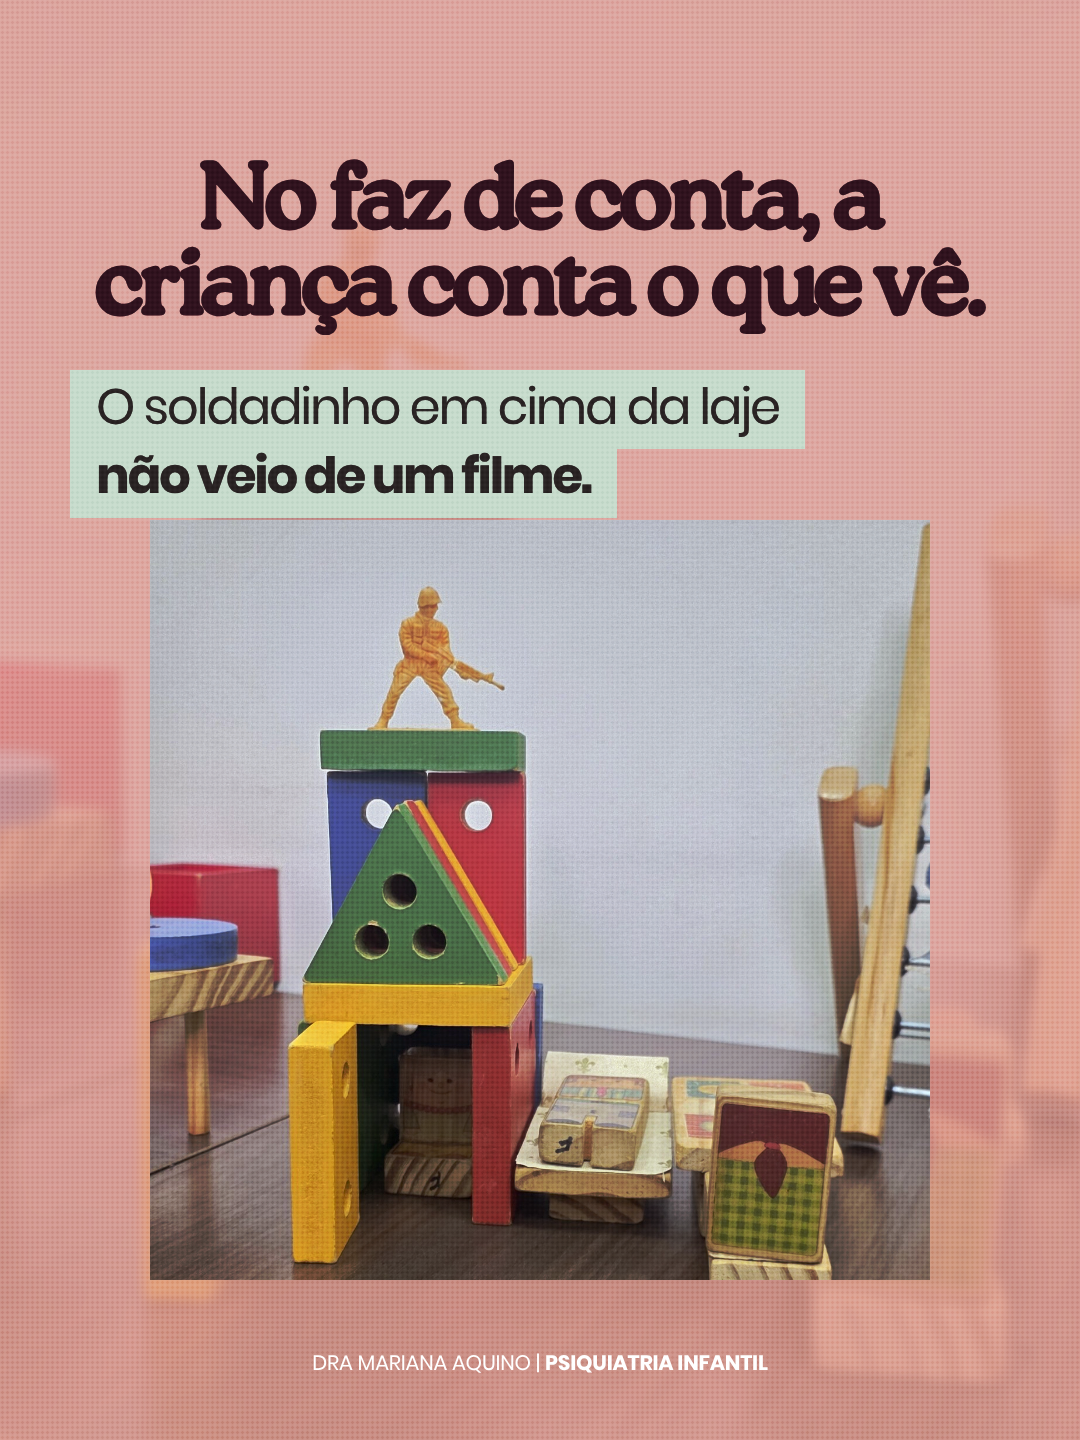
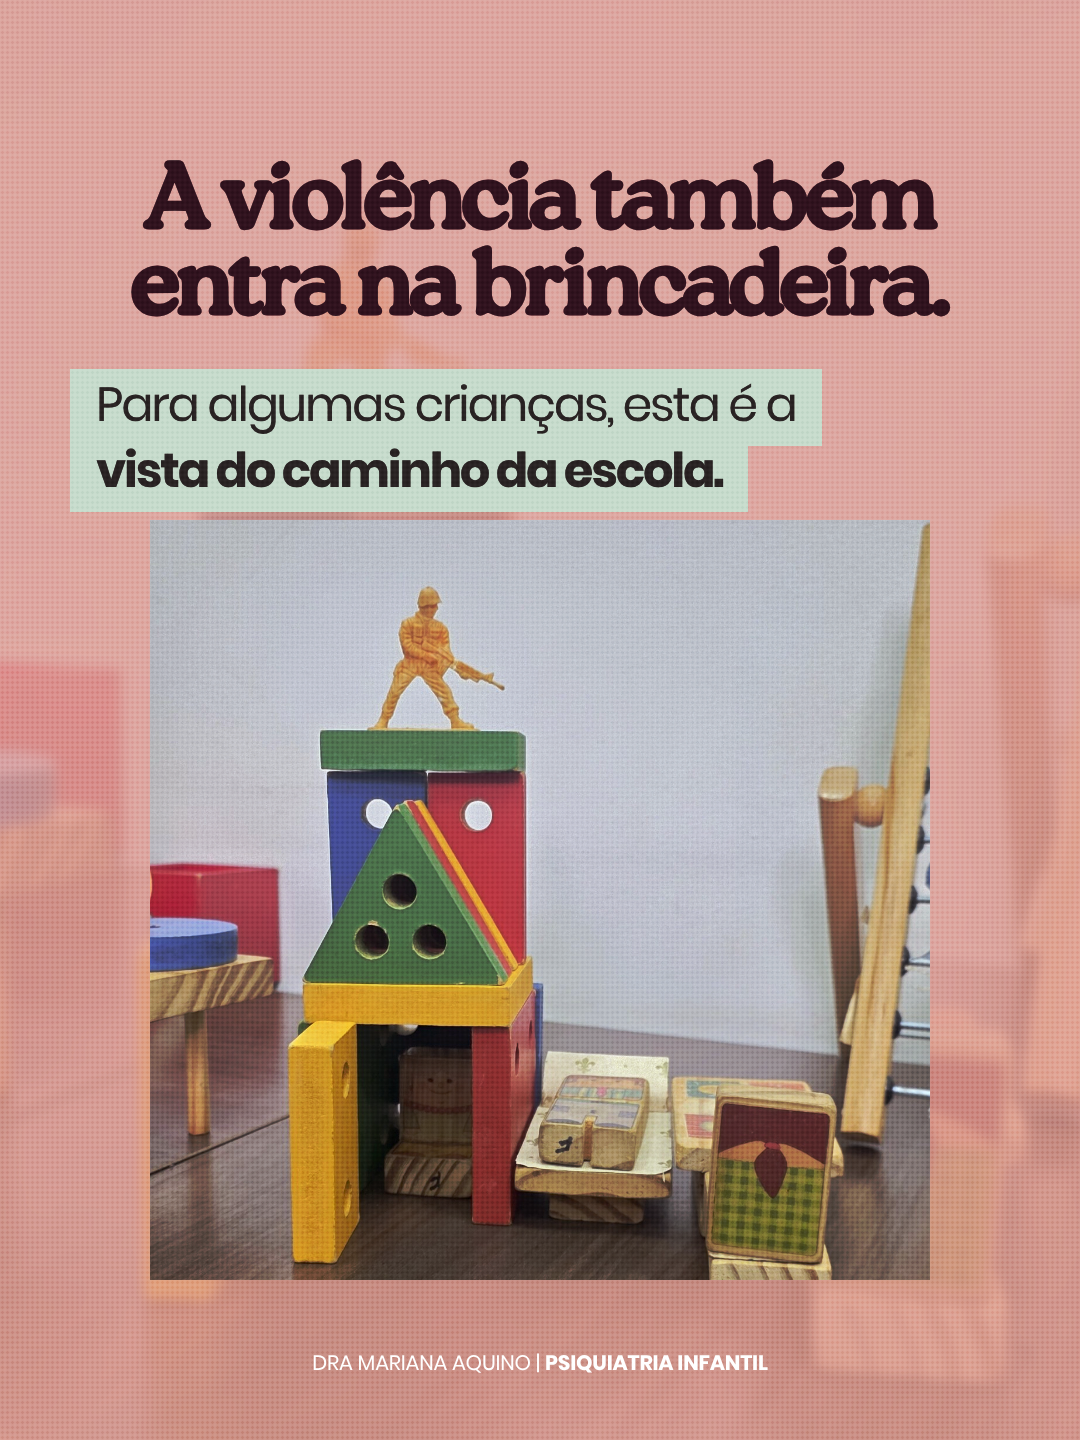
Post faz de conta refeito na abordagem C (violência na brincadeira)
Claude-Session: https://claude.ai/code/session_01BuBFxGjEhSUXkfJjXYPDWJ

Changed region(s): [[0.0611, 0.0938, 0.9167, 0.375]]

diff --git a/posts/posts-unicos/2026-11-faz-de-conta/legenda.md b/posts/posts-unicos/2026-11-faz-de-conta/legenda.md
@@ -1,9 +1,11 @@
-"Ele só brinca de polícia e ladrão." Quando a brincadeira traz armas, brigas ou perseguição, é comum o adulto se assustar e querer mudar de assunto. Mas, no faz de conta, a criança costuma repetir o que vê e o que ainda não consegue explicar com palavras. [REVISAR – base: IACAPAP, cap. A.5]
+Na consulta, um menino montou esta casa e colocou um soldadinho armado no alto da laje. Ele mora em uma comunidade com presença do tráfico armado no Rio de Janeiro. É essa a cena que ele vê no caminho de ida e volta da escola.
 
-Em vez de corrigir a cena, experimente entrar nela com curiosidade. "Quem é esse boneco?" "O que está acontecendo aqui?" "E depois, o que acontece?" As respostas ajudam a entender o que anda ocupando os pensamentos do seu filho.
+No faz de conta, a criança repete o que vive. Quando a violência faz parte do caminho de casa, ela pode aparecer na brincadeira, no sono e no corpo. [REVISAR – base: IACAPAP, cap. A.4 e A.5]
 
-Vale observar também o que vem junto. Se ele anda mais assustado, mais quieto ou mais agressivo, ou se a mesma cena se repete com sofrimento, esse pode ser um bom momento para buscar ajuda. [REVISAR – base: IACAPAP, cap. A.4]
+Para quem cuida, vale entrar na cena sem julgar. "Quem é ele?" "O que ele está fazendo aí em cima?" "Como você se sente quando vê isso?" E observar se a criança anda mais assustada, mais quieta, mais irritada ou dormindo pior. [REVISAR]
 
-Brincar é uma das formas mais sérias que a criança tem de contar a própria história. Às vezes, ela só está esperando alguém perguntar.
+Brincar é uma das formas de a criança contar o que ainda não cabe em palavras. Escutar essa história também é cuidado.
 
-#BrincarÉCoisaSéria #SaúdeMentalInfantil
+Para apoio emocional, o CVV atende pelo 188. Em caso de emergência, ligue 192 (SAMU).
+
+#SaúdeMentalInfantil #BrincarÉCoisaSéria
